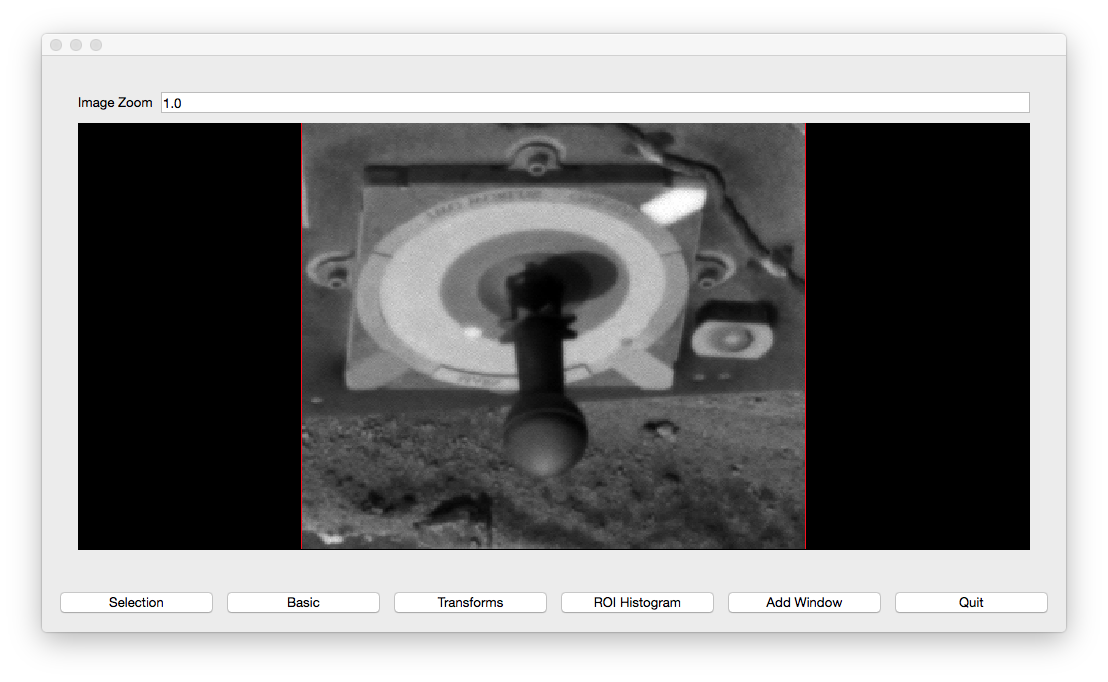
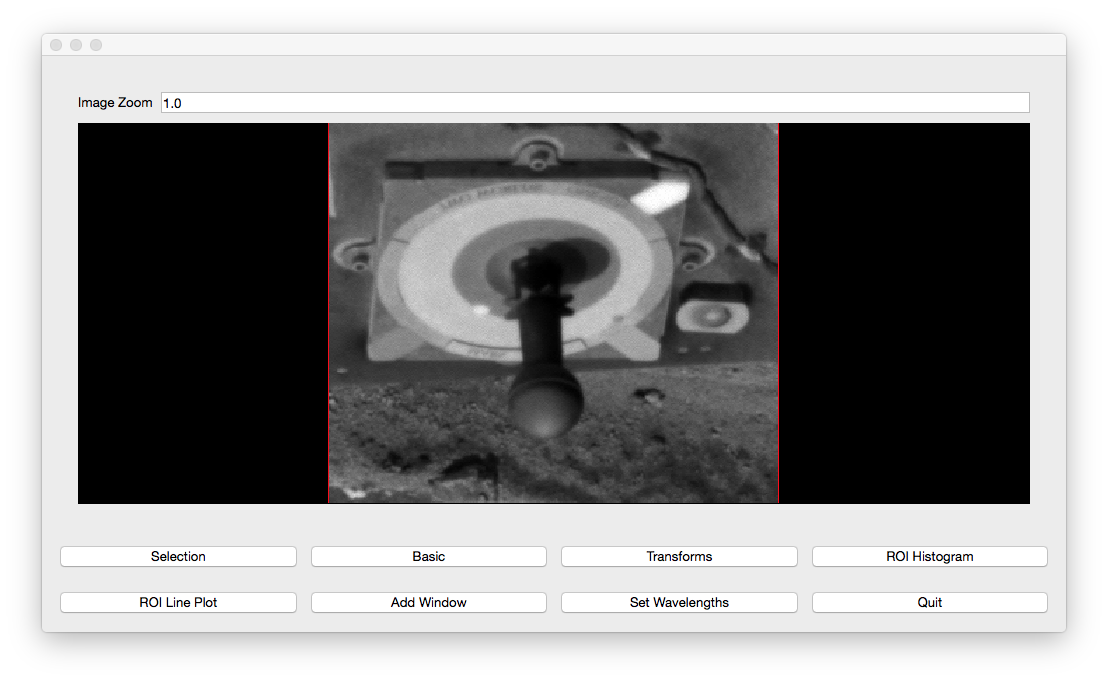
Update README

diff --git a/pdsspect/roi_line_plot.py b/pdsspect/roi_line_plot.py
@@ -112,8 +112,16 @@ class ROILinePlot(ROIPlot):
         for color in self.model.selected_colors:
             rgb = ginga_colors.lookup_color(color)
             data = self.model.data_with_color(color)
-            means = [array.mean() for array in data]
-            stdevs = [np.std(array) for array in data]
+            means = []
+            stdevs = []
+            for array in data:
+                if len(array) == 0:
+                    break
+                means.append(array.mean())
+                stdevs.append(np.std(array))
+            should_not_plot = len(means) != len(wavelengths)
+            if should_not_plot:
+                continue
             self._ax.errorbar(
                 x=wavelengths,
                 y=means,

diff --git a/pdsspect/pdsspect.py b/pdsspect/pdsspect.py
@@ -262,7 +262,6 @@ def pdsspect(inlist=None):
     separating each item by a command
     >>> pdsspect(['a1.img, b3.img, c1.img, d*img'])
     You can also pass in a list of files/globs
-
     pdsspect returns a dictionary of the ROIs:
     >>> rois = pdsspect(['a1.img, b3.img, c1.img, d*img'])
     >>> rois['red'][:2, :2]
@@ -274,6 +273,7 @@ def pdsspect(inlist=None):
         dtype=bool
     )
     """
+
     app = QtWidgets.QApplication(sys.argv)
     files = []
     if isinstance(inlist, list):

diff --git a/README.rst b/README.rst
@@ -78,14 +78,17 @@ where the center of the pan should be. Using the arrow keys will also adjust
 the position of the box by ``1`` in the direction of the arrow key.
 
 Clicking the ``Add Window`` button will open another view. This view will have
-the same image, cut levels, and zoom by default. If the image's are the same,
-chaning the cut levels on one image will automatically change the cut levels
-on another image. However, one can change the zoom on one view without
-changing the zoom another view.
+the same image, cut levels, and zoom by default.
 
 .. image:: screenshots/multiple_window1.png
+
+If the image's are the same, chaning the cut levels on one image will
+automatically change the cut levels on another image. However, one can change
+the zoom on one view without changing the zoom another view.
+
 .. image:: screenshots/multiple_window2.png
 .. image:: screenshots/multiple_window3.png
+.. image:: screenshots/multiple_window4.png
 
 When the images are different, adjusting the cut levels on one image will only
 change the cut levels on that image:
@@ -167,6 +170,19 @@ Overlay ROIs by checking other boxes. The order (depth) of the histogram data
 will be in the order that the user checks the boxes (i.e., checking red and
 then purple will result in purple overlaying the red).
 
+To perform multispectral analysis use ``ROI Line Plot``. If analyzing images
+from instruments other than Pancam and Mastcam, the user must manually input
+the image wavelength with ``Set Wavelength`` widget:
+
+.. image:: screenshots/set_wavelength1.png
+
+``ROI Line Plot`` works similar to that of the histogram plot except it will
+compare each image with an associated wavelength.
+
+.. image:: screenshots/line_plot1.png
+.. image:: screenshots/line_plot2.png
+.. image:: screenshots/line_plot3.png
+
 The user can flip the image over different axis with the Transforms window.
 The transformation will apply to each image in all the views:
 
@@ -206,24 +222,3 @@ Images In Example
 * `2p235913431radau37p2111l7c1.img
   <http://pds-geosciences.wustl.edu/mer/mer2-m-pancam-3-radcal-rdr-v1/
   mer2pc_1xxx/data/sol1234/2p235913431radau37p2111l7c1.img>`_
-* `2p235913458radau37p2111r1c1.img
-  <http://pds-geosciences.wustl.edu/mer/mer2-m-pancam-3-radcal-rdr-v1/
-  mer2pc_1xxx/data/sol1234/2p235913458radau37p2111r1c1.img>`_
-* `2p235913479radau37p2111r2c1.img
-  <http://pds-geosciences.wustl.edu/mer/mer2-m-pancam-3-radcal-rdr-v1/
-  mer2pc_1xxx/data/sol1234/2p235913479radau37p2111r2c1.img>`_
-* `2p235913499radau37p2111r3c1.img
-  <http://pds-geosciences.wustl.edu/mer/mer2-m-pancam-3-radcal-rdr-v1/
-  mer2pc_1xxx/data/sol1234/2p235913499radau37p2111r3c1.img>`_
-* `2p235913519radau37p2111r4c1.img
-  <http://pds-geosciences.wustl.edu/mer/mer2-m-pancam-3-radcal-rdr-v1/
-  mer2pc_1xxx/data/sol1234/2p235913519radau37p2111r4c1.img>`_
-* `2p235913539radau37p2111r5c1.img
-  <http://pds-geosciences.wustl.edu/mer/mer2-m-pancam-3-radcal-rdr-v1/
-  mer2pc_1xxx/data/sol1234/2p235913539radau37p2111r5c1.img>`_
-* `2p235913559radau37p2111r6c1.img
-  <http://pds-geosciences.wustl.edu/mer/mer2-m-pancam-3-radcal-rdr-v1/
-  mer2pc_1xxx/data/sol1234/2p235913559radau37p2111r6c1.img>`_
-* `2p235913580radau37p2111r7c1.img
-  <http://pds-geosciences.wustl.edu/mer/mer2-m-pancam-3-radcal-rdr-v1/
-  mer2pc_1xxx/data/sol1234/2p235913580radau37p2111r7c1.img>`_
